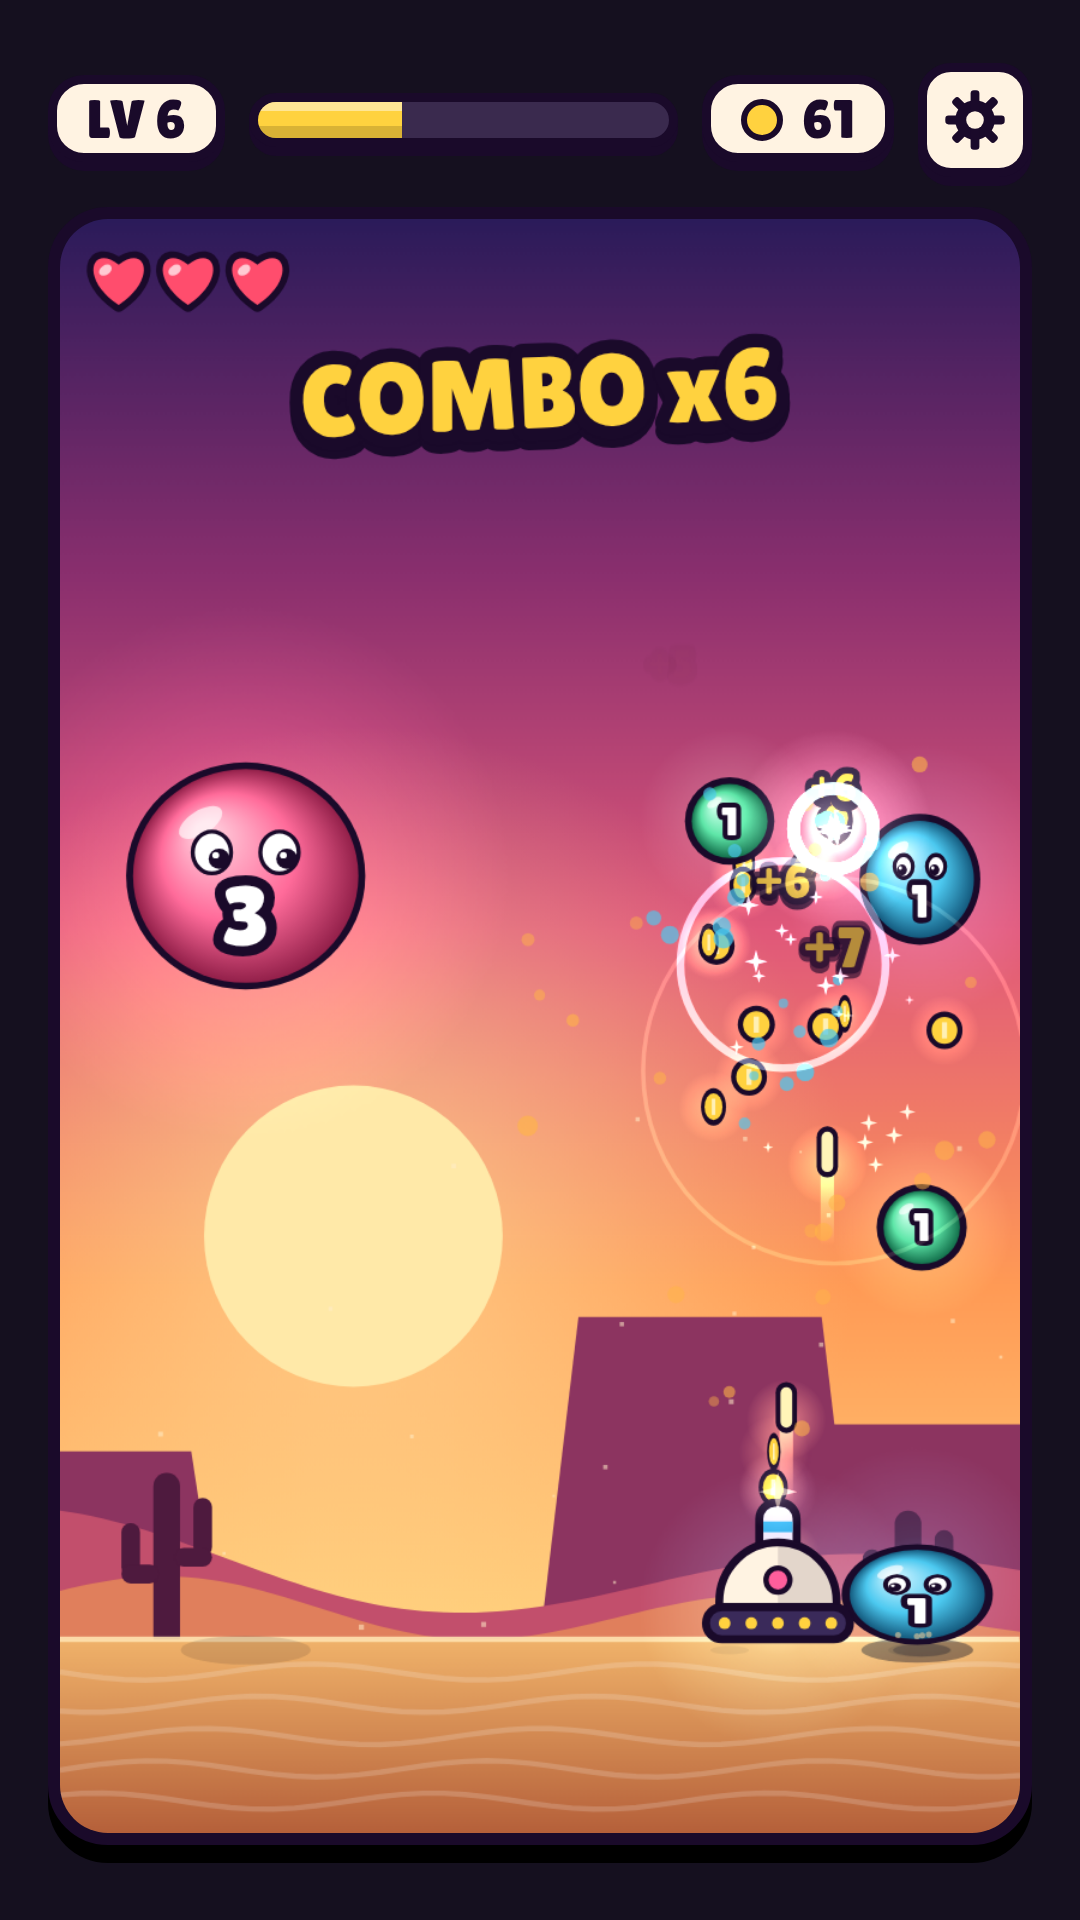
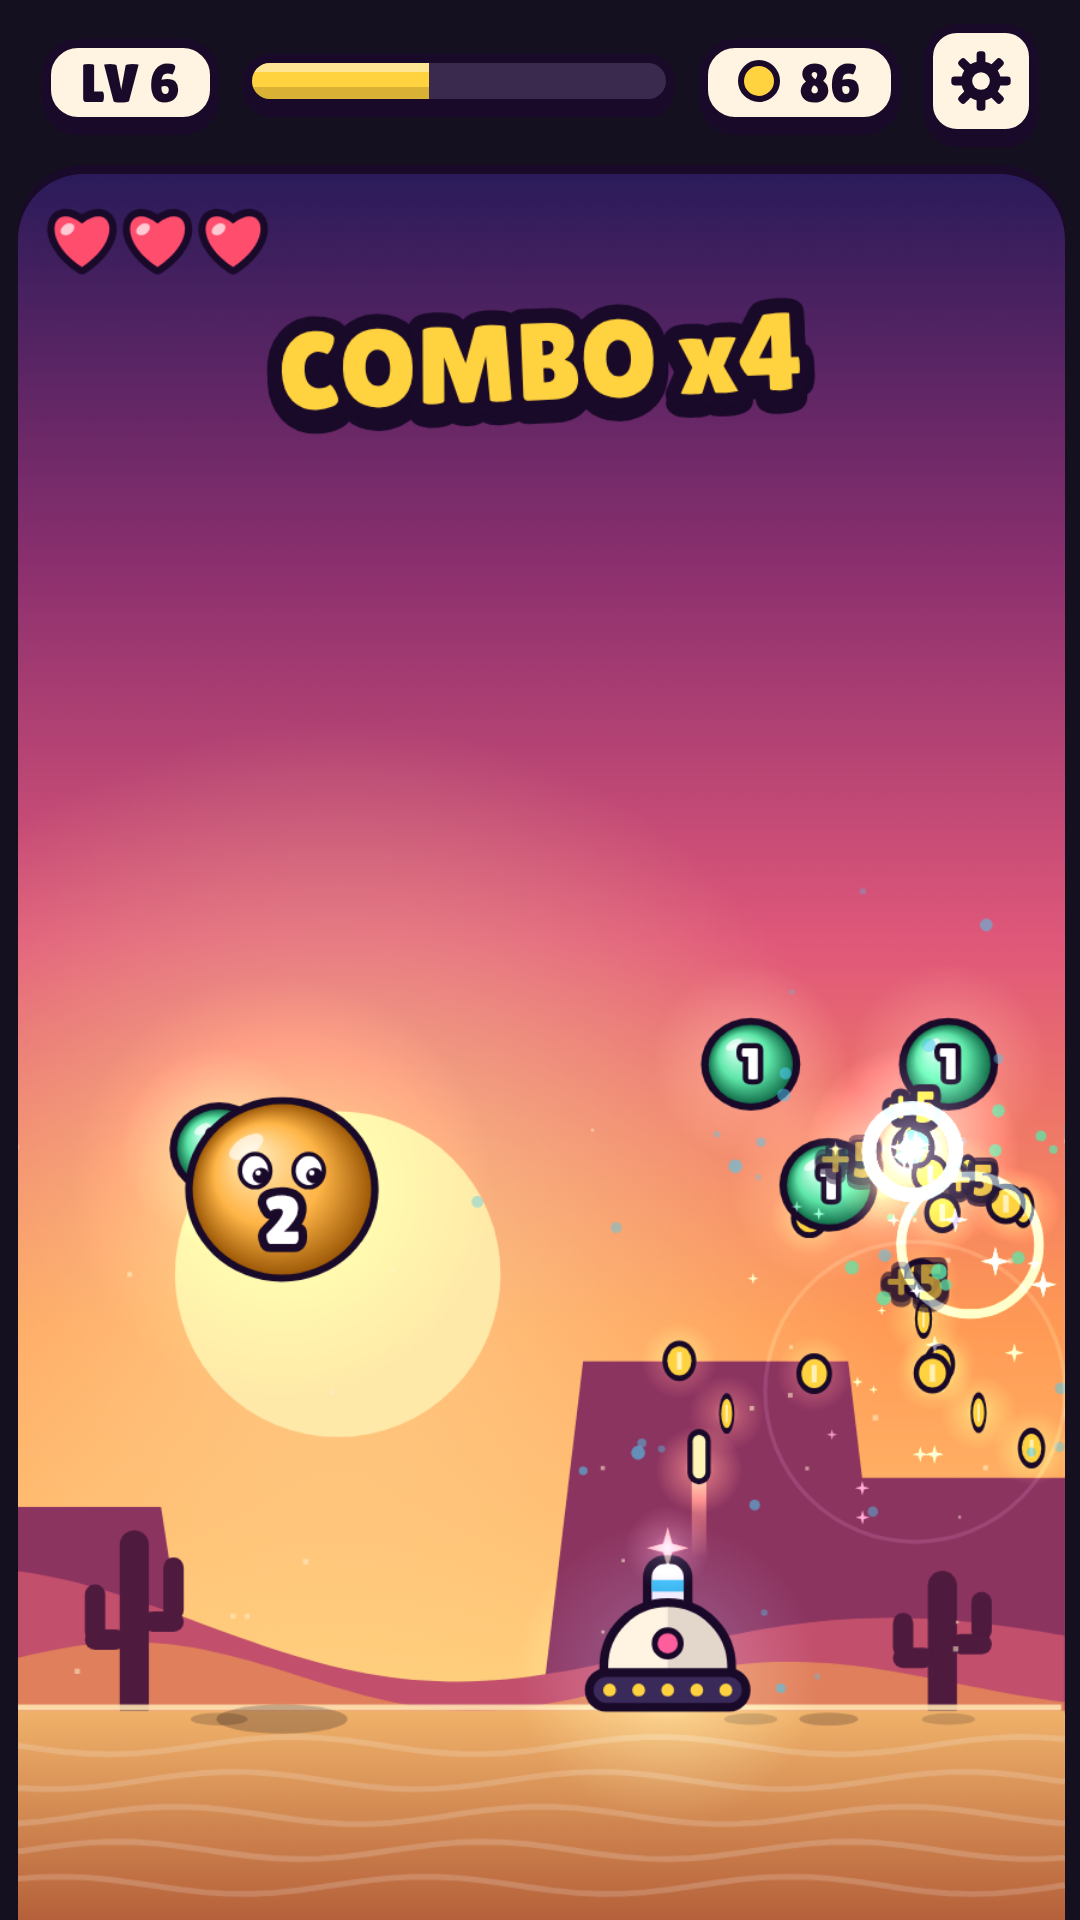
True full-screen play field
- Field fills the whole screen width and height (taller field on tall phones), HUD stays above it in the safe area
- Draw into the camera cut-out (shortEdges) on Android
- Regenerate store screenshots

Claude-Session: https://claude.ai/code/session_0154TmQgaf8AbJPyRXThWofs

diff --git a/www/index.html b/www/index.html
@@ -30,13 +30,16 @@
 *{box-sizing:border-box}
 [hidden]{display:none!important}
 html,body{margin:0;background:var(--bg);color:var(--paper);height:100%;overflow:hidden;overscroll-behavior:none;touch-action:manipulation}
-body{font:14px/1.3 var(--body);padding-block:calc(10px + var(--sat)) calc(14px + var(--sab));padding-inline:max(16px,var(--sal)) max(16px,var(--sar));
-  -webkit-tap-highlight-color:transparent;user-select:none;-webkit-user-select:none;-webkit-touch-callout:none}
-.app{max-width:440px;margin:0 auto;min-height:100%;display:grid;gap:10px;align-content:center}
+body{font:14px/1.3 var(--body);-webkit-tap-highlight-color:transparent;user-select:none;-webkit-user-select:none;-webkit-touch-callout:none}
+/* Full screen: the HUD sits at the top (below the status bar / camera cut-out), the play field fills everything under it
+   edge to edge. resize() sizes the field: full width, and as tall as the screen is. */
+.app{position:fixed;inset:0;display:flex;flex-direction:column}
+.wrap{flex:1;min-height:0;display:flex;justify-content:center;align-items:flex-end}
 .ol{color:#fff;text-shadow:2px 0 0 var(--ink),-2px 0 0 var(--ink),0 2px 0 var(--ink),0 -2px 0 var(--ink),2px 2px 0 var(--ink),-2px 2px 0 var(--ink),2px -2px 0 var(--ink),-2px -2px 0 var(--ink),0 4px 0 var(--ink)}
 
 /* HUD */
-.hud{display:grid;grid-template-columns:auto 1fr auto auto;align-items:center;gap:8px}
+.hud{flex:none;display:grid;grid-template-columns:auto 1fr auto auto;align-items:center;gap:8px;width:100%;max-width:480px;margin:0 auto;
+  padding:calc(8px + var(--sat)) max(14px,var(--sar)) 12px max(14px,var(--sal))}
 .pill{background:var(--paper);color:var(--ink);border:3px solid var(--ink);border-radius:12px;padding:1px 10px;font:400 18px var(--display);
   box-shadow:0 3px 0 var(--ink);display:flex;align-items:center;gap:6px;white-space:nowrap;font-variant-numeric:tabular-nums}
 .coin-ic{width:14px;height:14px;border-radius:50%;background:var(--gold);border:2px solid var(--ink);flex:none}
@@ -47,8 +50,7 @@ body{font:14px/1.3 var(--body);padding-block:calc(10px + var(--sat)) calc(14px +
 .sq svg{width:22px;height:22px}
 
 /* Stage */
-.stage{position:relative;width:min(100%, calc((100vh - 80px - var(--sat) - var(--sab)) * .6));width:min(100%, calc((100dvh - 80px - var(--sat) - var(--sab)) * .6));
-  max-width:100%;aspect-ratio:360/600;margin-inline:auto;border-radius:20px;overflow:hidden;border:4px solid var(--ink);box-shadow:0 6px 0 #000;background:#1B1030}
+.stage{position:relative;flex:none;overflow:hidden;background:#1B1030;border-radius:22px 22px 0 0;box-shadow:0 -3px 0 var(--ink)}
 .stage canvas{position:absolute;inset:0;width:100%;height:100%;touch-action:none;display:block}
 .overlay{position:absolute;inset:0;display:grid;grid-template:minmax(0,1fr) / minmax(0,1fr);place-items:center;padding:14px;background:rgba(10,4,20,.45)}
 
@@ -116,15 +118,16 @@ button:focus-visible{outline:3px solid var(--blue);outline-offset:2px}
         <circle cx="12" cy="12" r="3.2" fill="#FFF3E2"/></svg>
     </button>
   </div>
-  <div class="stage" id="stage">
+  <div class="wrap" id="wrap"><div class="stage" id="stage">
     <canvas id="cv" aria-label="Game field. Hold and drag to move the cannon and shoot."></canvas>
     <div class="overlay" id="ov"></div>
-  </div>
+  </div></div>
 </div>
 
 <script>
 (()=>{
-const LW=360,LH=600,GROUND=LH-72,G=850,TAU=Math.PI*2;
+const LW=360,G=850,TAU=Math.PI*2;
+let LH=600,GROUND=LH-72;   // LH grows on tall phones so the field fills the whole screen (see resize)
 const rnd=(a,b)=>a+Math.random()*(b-a);
 const RAD=[14,21,30,41];
 const BOUNCE=[190,250,300,350].map(h=>Math.sqrt(2*G*h));
@@ -642,8 +645,16 @@ function closeSettings(){
 $('gear').onclick=()=>{if(ovKind==='settings'&&!ov.hidden)closeSettings();else openSettings();};
 
 /* ---------- sizing + loop ---------- */
-function resize(){const w=stage.clientWidth;if(!w)return;dpr=Math.min(window.devicePixelRatio||1,2.5);k=w/LW;cv.width=Math.round(LW*k*dpr);cv.height=Math.round(LH*k*dpr);bg=null;fitCard();}
-new ResizeObserver(resize).observe(stage);resize();
+/* The field is 360 units wide. On a tall phone it is stretched to the full screen width and made taller (up to 960 units)
+   so nothing is left empty; on a short or wide window it shrinks to fit (never less than 600 tall). */
+const wrap=document.getElementById('wrap');
+function resize(){
+  const aw=Math.min(wrap.clientWidth,480),ah=wrap.clientHeight;if(!aw||!ah)return;
+  const kk=Math.min(aw/LW,ah/600),h=Math.min(960,Math.floor(ah/kk)),w=Math.round(LW*kk);
+  stage.style.width=w+'px';stage.style.height=Math.round(h*kk)+'px';
+  if(h!==LH){LH=h;GROUND=LH-72;if(theme){amb=theme.init();}}
+  dpr=Math.min(window.devicePixelRatio||1,2.5);k=w/LW;cv.width=Math.round(LW*k*dpr);cv.height=Math.round(LH*k*dpr);bg=null;fitCard();}
+new ResizeObserver(resize).observe(wrap);resize();
 let prev=performance.now();
 function loop(now){const dt=Math.min(1/30,(now-prev)/1000);prev=now;update(dt);draw(dt);requestAnimationFrame(loop);}
 
